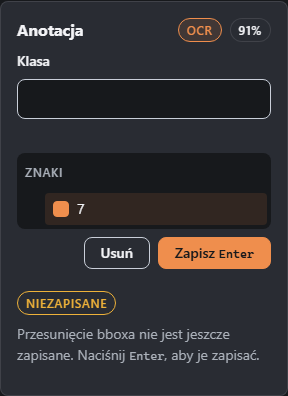
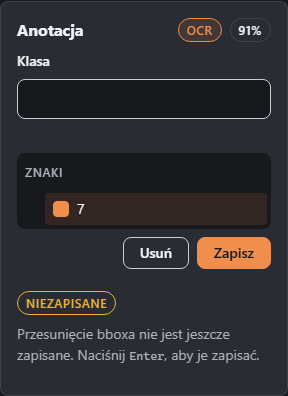
docs(fe-015): record visual QA and refresh editor evidence

Changed region(s): [[0.3438, 0.5758, 0.875, 0.697], [0.2812, 0.6061, 0.3125, 0.6667]]

diff --git a/docs/tickets/FE-015/log.md b/docs/tickets/FE-015/log.md
@@ -246,8 +246,73 @@ maskuje klawiatury i odwrotnie.
 
 - `npx tsc --noEmit` — czysto.
 - `npx vitest run` — **667/667 zielone**, 0 pominiętych.
-- Pełna bramka (`scripts\check.ps1`, 9/9) i Visual QA: **oczekują na zwolnienie
-  portów 8000 i 5173**, zajętych przez aplikację deweloperską operatora.
-  Playwright ma `reuseExistingServer: false` i porty zaszyte na sztywno, więc
-  bramka nie ruszy wcześniej; cudzych procesów nie ubijam.
+- Porty 8000 i 5173 zostały zwolnione przez właściciela ticketu przed bramką.
 
+## 2026-09-15 — Pierwszy pełny przebieg bramki i naprawa kotwic E2E
+
+Po skopiowaniu ignorowanego `.env` z głównego checkoutu uruchomiono jednym
+nieprzerwanym przebiegiem i ścieżką absolutną:
+
+`powershell.exe -NoProfile -ExecutionPolicy Bypass -File
+C:\Users\t.wisniewski\.traycer\worktrees\thomschery__datasetfactory\feat-fe-015-editor-controls-and-polish\scripts\check.ps1`
+
+Wynik: siedem pierwszych etapów PASS, frontend **667/667**, E2E **15/18**,
+ostatni etap SKIP wskutek fail-fast. Trzy awarie były przestarzałymi kotwicami:
+
+- `FE-011-FIX2` wybierał pierwszy przycisk pozycyjnie w kontenerze zoomu; po
+  dołożeniu `−` / `+` trafiał w „Pomniejsz kanwę”. Selektor wiąże się teraz z
+  jedynym przyciskiem semantycznie przełącznym: `button[aria-pressed]`.
+- Dwa testy `visual-qa.spec.ts` nadal mierzyły celowo usunięty region „Dane
+  klatki”. Teraz jawnie wymagają `Dane klatki = 0`, mierzą stały panel
+  „Anotacja bez zaznaczenia” i zachowują asercję `panel.right <= image.left`.
+
+Rerun dokładnie tych trzech przypadków: **3/3 PASS**.
+
+### Dodatkowa sonda FE-011-FIX2
+
+Żeby wykluczyć, że naprawiony selektor tylko „zieleni” test, wyłączono wyłącznie
+`invalidatePanInteraction()` w handlerze `window.blur`. Test padł na pierwszym
+niezmienniku mechanizmu: `.df-region-overlay` zachował `data-panning="true"` po
+`blur`. To dowodzi, że nadal pilnuje unieważnienia aktywnej epoki panoramowania,
+a nie tylko odnalezienia przycisku.
+
+Po sondzie plik przywrócono z HEAD. `core.autocrlf=true` zmienił surowe bajty
+LF/CRLF, więc nie zapisuję fałszywego twierdzenia o identycznym SHA256; zgodność
+treści Git jest dokładna: `git hash-object` worktree i `HEAD` dają ten sam blob
+`f347a6237c7b92c0df044203960e032d090d6ecf`, a plik nie figuruje w `git status`.
+
+## 2026-09-15 — Visual QA FE-015
+
+Nowy scenariusz `fe015-visual-qa.spec.ts` przeszedł **1/1** i zapisuje bez
+`fullPage` po dwa kadry dla każdego wymaganego viewportu:
+
+- `editor-no-selection-1440x1000.png`
+- `editor-context-menu-1440x1000.png`
+- `editor-no-selection-1920x1080.png`
+- `editor-context-menu-1920x1080.png`
+
+Fixture ma 18 klas, więc lista jest rzeczywiście przewijalna; przed screenshotem
+jest częściowo przewinięta i ma fokus kursora. Test wymaga
+`scrollHeight > clientHeight` oraz promienia thumb równego `--radius-pill`.
+Sprawdza też stały pusty panel i nieaktywne mutacje, brak opisu i „Danych
+klatki”, kontrolki `−` / `+` / `RESET`, menu z fokusem na „Usuń”, natywny tag
+`SELECT`, `appearance: none`, niezerowy chevron `::after` i granicę
+`panel.right <= image.left`. Oględziny wszystkich czterech PNG potwierdziły brak
+kolizji menu/zoomu, poprawną kolumnę i pełne zmieszczenie kadru.
+
+## 2026-09-15 — Rozstrzygnięcie odświeżeń starszych screenshotów (RGB)
+
+Porównanie wykonano po konwersji obu stron do RGB. `getbbox()` nie pracował na
+kanale alpha.
+
+| Plik | Zmienione piksele | RGB bbox różnicy | Decyzja i powód |
+|---|---:|---|---|
+| `FE-001/annotations-1440.png` | 62 449 / 1 440 000 (4,337%) | `(312, 97)–(1408, 1000)` | realne: stały panel, usunięte dane/opis, nowe zoom controls |
+| `FE-011/annotations-pan-1440.png` | 93 672 / 1 440 000 (6,505%) | `(312, 102)–(1408, 1000)` | realne: nowe kontrolki w HUD i uporządkowana kolumna podczas panu |
+| `FE-012/panel-without-geometry-1440.png` | 2 318 / 114 048 (2,032%) | `(84, 237)–(271, 269)` | realne: copy podpowiedzi Enter po usunięciu oznaczeń przycisków |
+| `FE-012/review-1440.png` | 62 458 / 1 440 000 (4,337%) | `(312, 102)–(1408, 1000)` | realne: stały panel, kolumna bez „Danych klatki”, widoczny zoom |
+| `FE-013/create-class-action-1440.png` | 2 409 / 82 368 (2,925%) | `(13, 78)–(275, 269)` | realne: stały panel i oczyszczone oznaczenia akcji |
+| `FE-001/error-1440.png` | 9 / 1 440 000 (0,001%) | `(312, 95)–(315, 101)` | znany dryf FE-014: maks. delta kanału 1; przywrócono z HEAD |
+
+Pięć realnych odświeżeń jest commitowanych jawnie; znany dziewięciopikselowy
+dryf nie trafia do historii.
